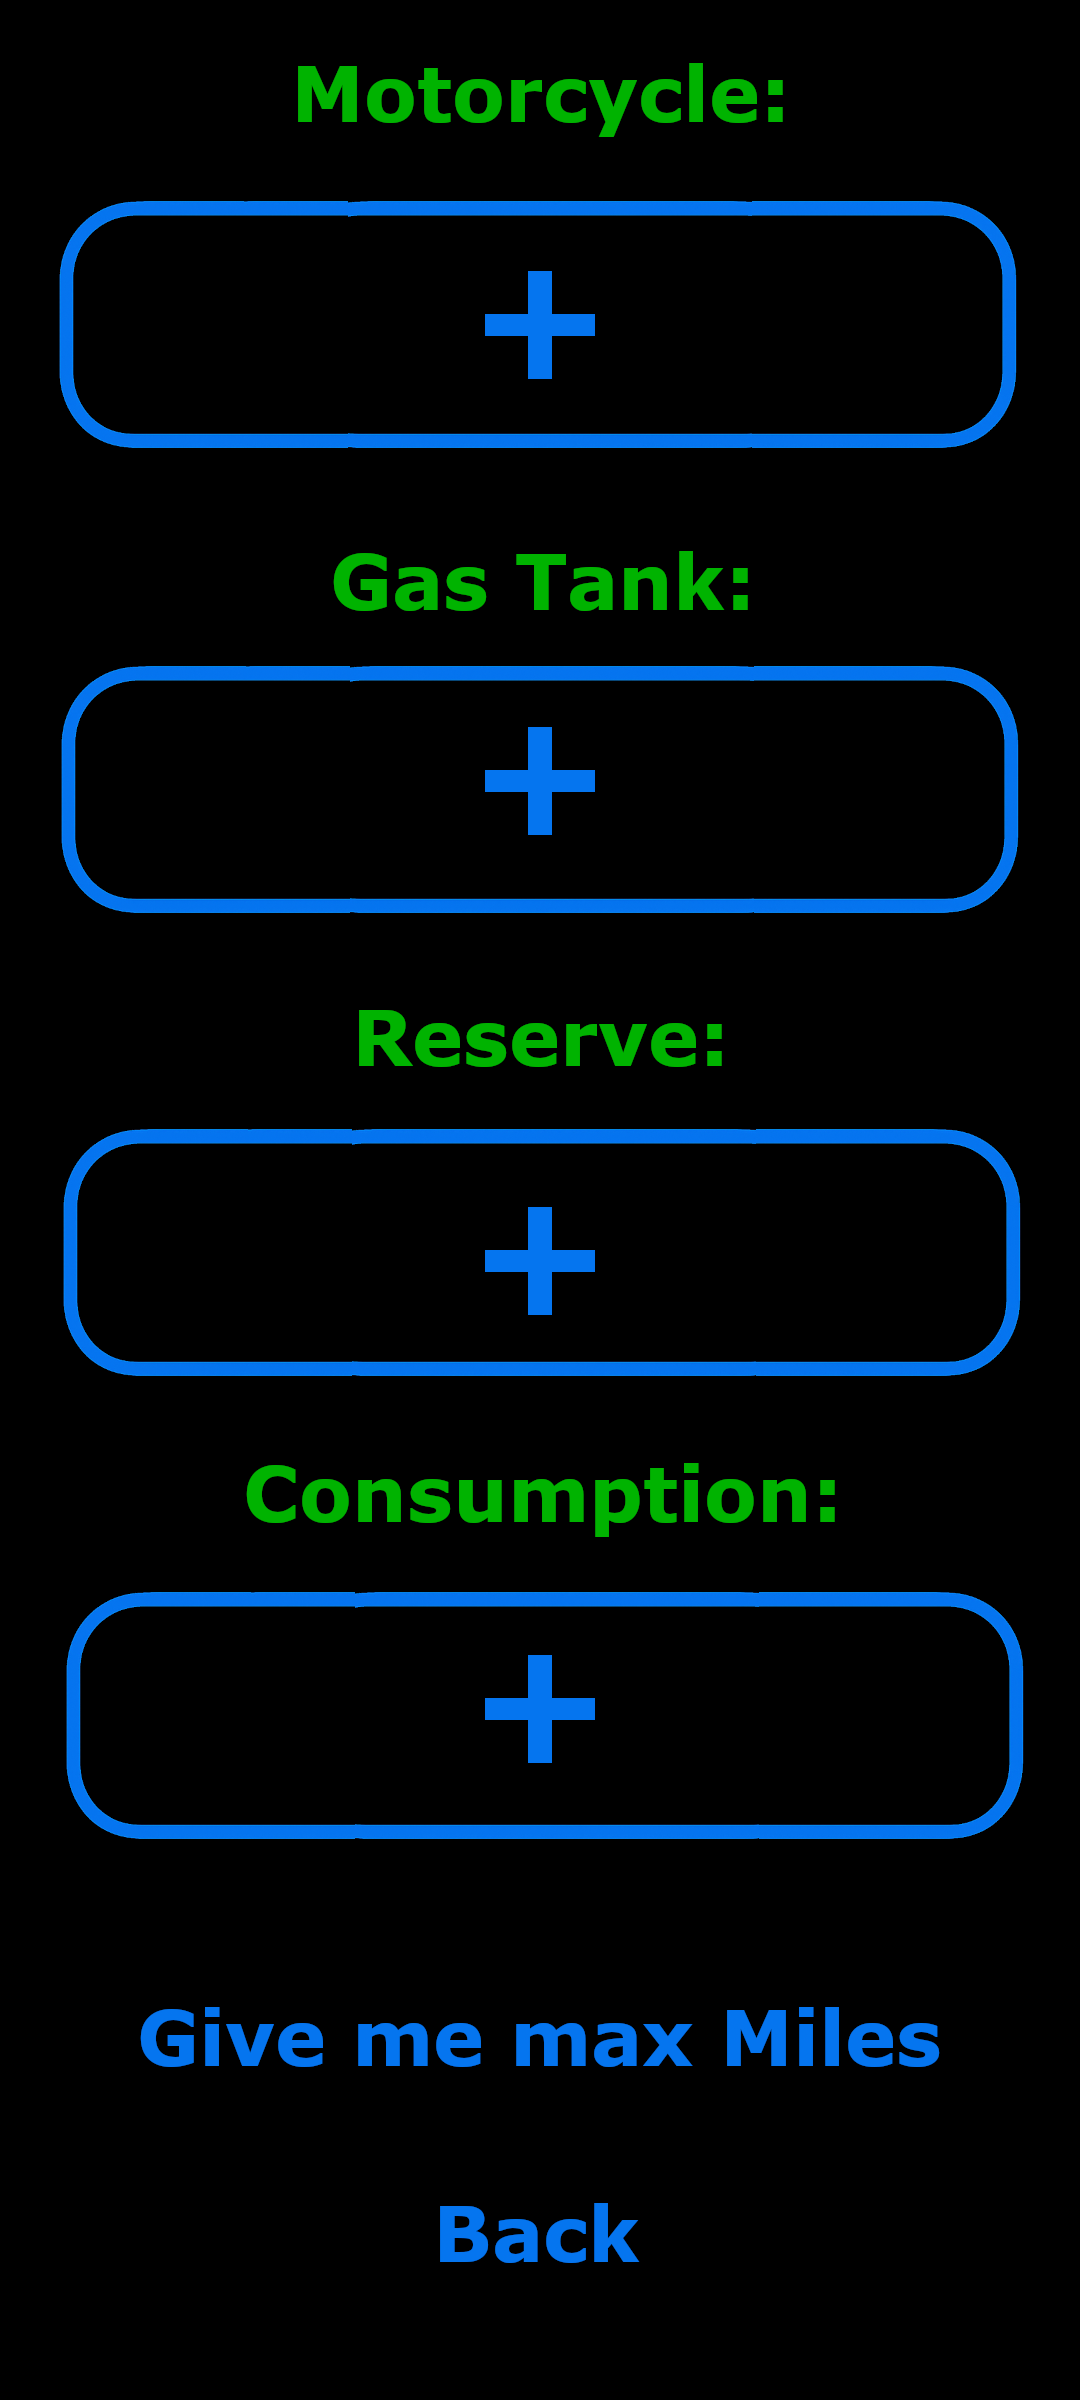
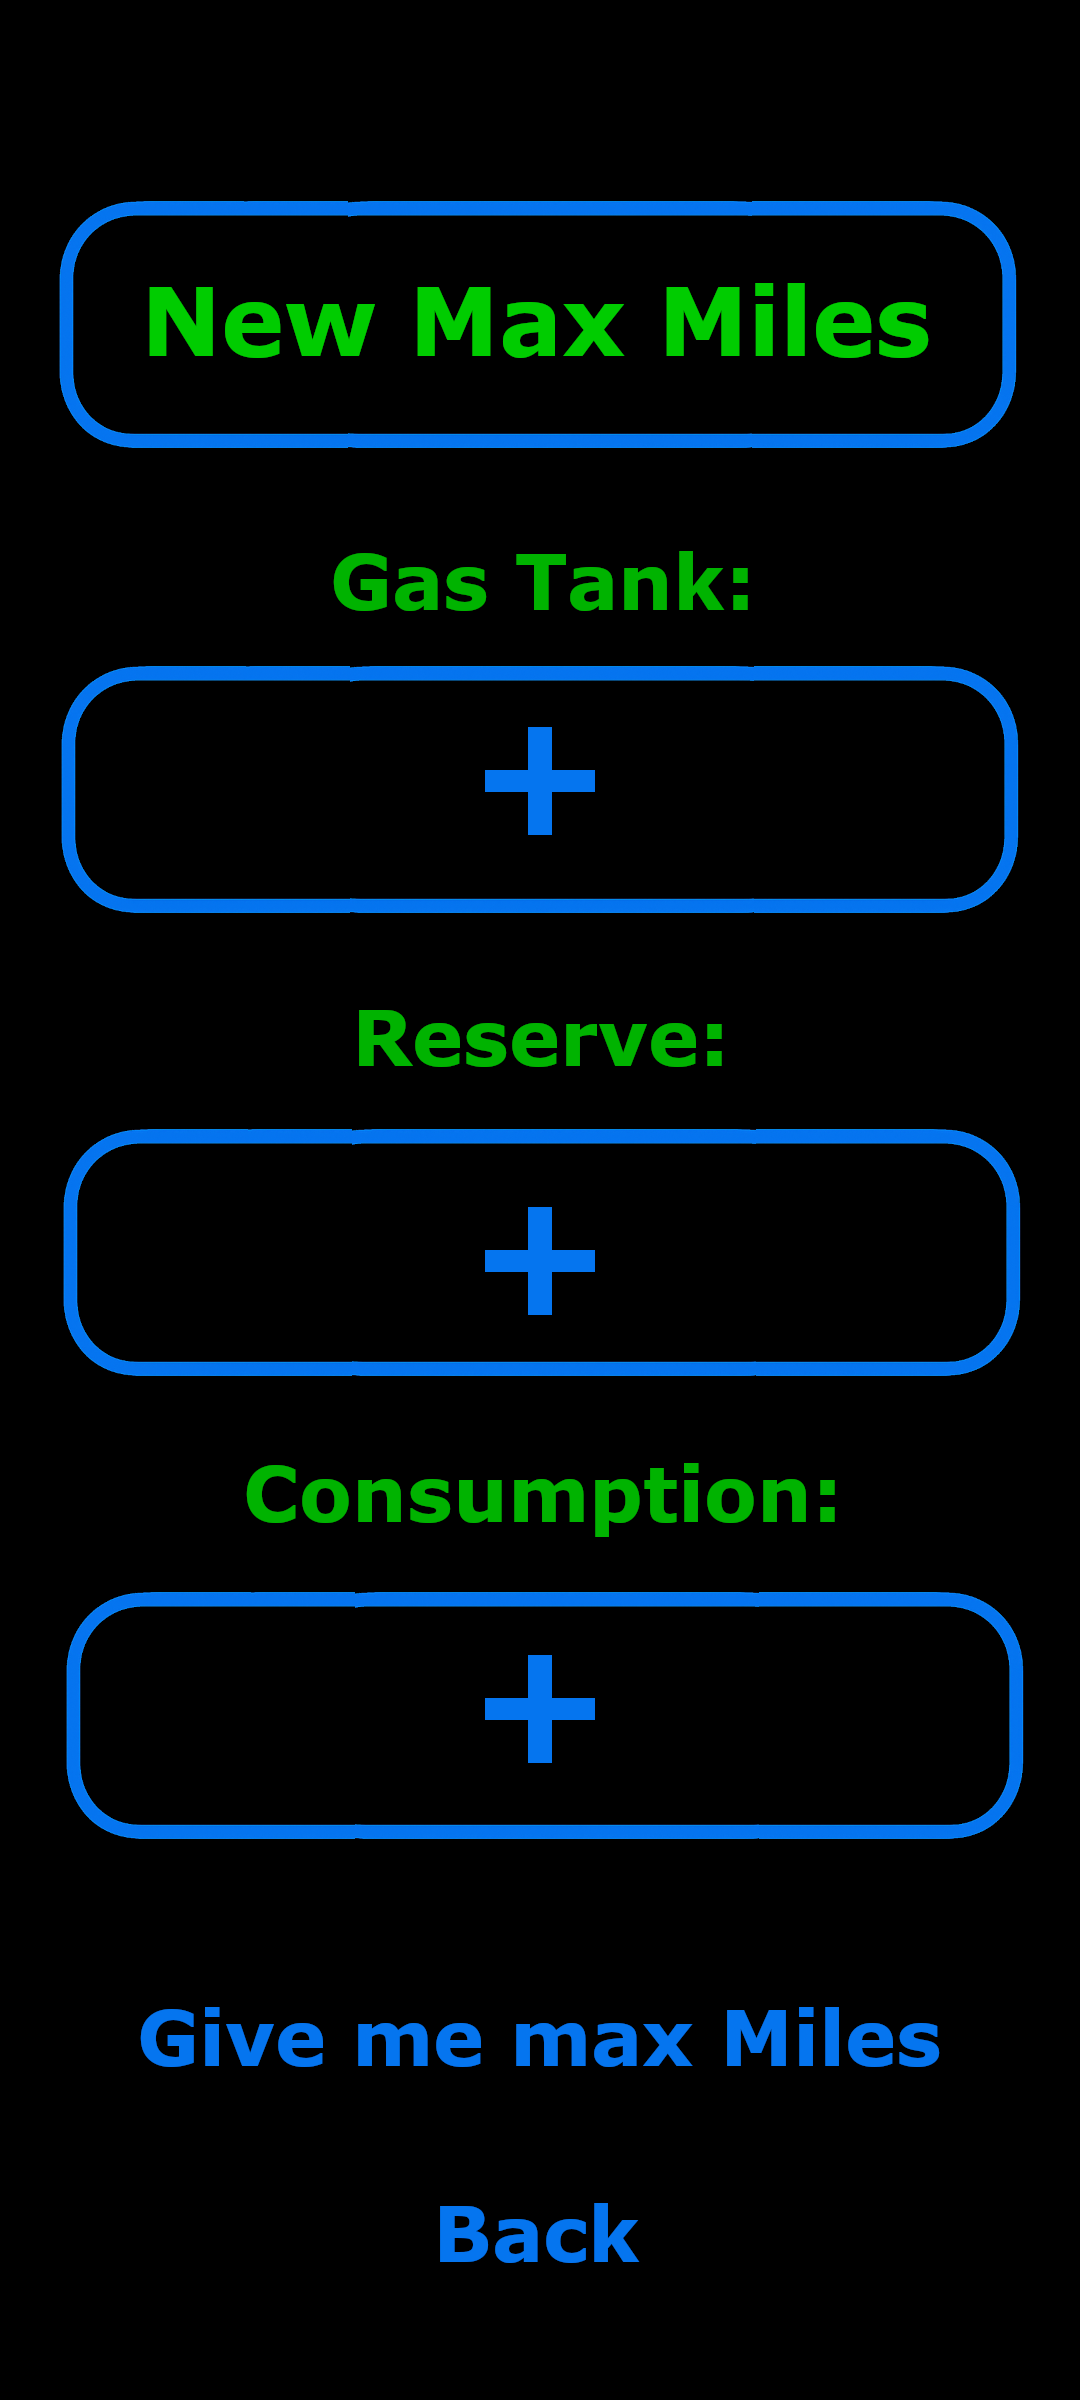
config works

Changed region(s): [[0.1222, 0.0938, 0.5806, 0.1562], [0.275, 0.0312, 0.7333, 0.0625], [0.6111, 0.0938, 0.8556, 0.1562]]

diff --git a/lib/config.dart b/lib/config.dart
@@ -39,36 +39,33 @@ class _ConfigPageState extends State<ConfigPage> {
   @override
   void initState() {
     super.initState();
-    selectedCategory = motorcycles[0];
-    selectedTank = (selectedCategory!["tank"] as List<double>)[0];
-    selectedReserve = (selectedCategory!["reserve"] as List<double>)[0];
-    selectedConsumption = (selectedCategory!["consumption"] as List<double>)[0];
-
-    tankController = TextEditingController(text: selectedTank.toString());
-    reserveController = TextEditingController(text: selectedReserve.toString());
+    tankController = TextEditingController(text: 0.toString());
+    reserveController = TextEditingController(text: 0.toString());
     consumptionController = TextEditingController(
-      text: selectedConsumption.toString(),
+      text: 0.toString(),
     );
   }
 
   void changeKmToMiles(double resultMaxKilometer) {
     double miles = resultMaxKilometer * 0.621371;
-    String stringMiles = miles.toStringAsFixed(1);
-    double roundedMiles = double.parse(stringMiles);
-    widget.controller?.milesBeforeRefuel = roundedMiles.round();
+    int roundedMiles = (miles).round();
 
-    print(miles.round());
-    Navigator.pop(context);
+    widget.controller?.milesBeforeRefuel = roundedMiles;
+
+    print(roundedMiles);
+
+    Navigator.pop(context, roundedMiles);
   }
 
   void mileCalculation() {
-    double tank = double.tryParse(tankController.text) ?? 0;
-    double reserve = double.tryParse(reserveController.text) ?? 0;
-    double consumption = double.tryParse(consumptionController.text) ?? 0;
+    final tank = double.tryParse(tankController.text) ?? 0.0;
+    final reserve = double.tryParse(reserveController.text) ?? 0.0;
+    final consumption = double.tryParse(consumptionController.text) ?? 0.0;
 
     resultMaxMiles = (tank - reserve) / (consumption / 100);
     changeKmToMiles(resultMaxMiles);
   }
+
 
   void getBack() {
     Navigator.pop(context);
@@ -208,7 +205,7 @@ class _ConfigPageState extends State<ConfigPage> {
   @override
   Widget build(BuildContext context) {
     // placeholder
-    final boxheight = MediaQuery.of(context).size.height * 0.142;
+    final boxheight = MediaQuery.of(context).size.height * 0.194;
     final boxheight1 = MediaQuery.of(context).size.height * 0.103;
     final boxheight2 = MediaQuery.of(context).size.height * 0.103;
     final boxheight3 = MediaQuery.of(context).size.height * 0.05;
@@ -239,7 +236,6 @@ class _ConfigPageState extends State<ConfigPage> {
             child: Column(
               crossAxisAlignment: CrossAxisAlignment.center,
               children: [
-                buildDropdownCategory(),
                 SizedBox(height: boxheight),
                 buildInputRow(tankController, inputHeight, inputWidth, inputBoxheight, inputBoxWidth),
                 SizedBox(height: boxheight1),

diff --git a/lib/main.dart b/lib/main.dart
@@ -99,11 +99,18 @@ class _MileToReserveAppState extends State<MileToReserveApp>
               child: Builder(
                 builder: (innerContext) {
                   return ElevatedButton(
-                    onPressed: () {
-                      Navigator.push(
-                        innerContext, // <--- WICHTIG: innerContext benutzen
-                        MaterialPageRoute(builder: (context) => ConfigPage()),
+                    onPressed: () async {
+                      final result = await Navigator.push(
+                        innerContext,
+                        MaterialPageRoute(
+                          builder: (_) => ConfigPage(controller: controller),
+                        ),
                       );
+                      if (result != null) {
+                        controller.updateMiles(result);
+                      }
+                      print("neue miles:");
+                      print(controller.milesBeforeRefuel);
                     },
                     style: ElevatedButton.styleFrom(
                       backgroundColor: Colors.transparent,

diff --git a/lib/tracking_controller.dart b/lib/tracking_controller.dart
@@ -123,6 +123,14 @@ class TrackingController {
     _updateStatus("Reset");
   }
 
+  void updateMiles(int value) {
+    milesBeforeRefuel = value.clamp(0, _startMiles);
+    milesNotifier.value = milesBeforeRefuel;
+    milesPipNotifier.value = milesBeforeRefuel;
+    saveMiles();
+  }
+
+
   void _updateStatus(String newStatus) {
     status = newStatus;
     statusNotifier.value = newStatus;
